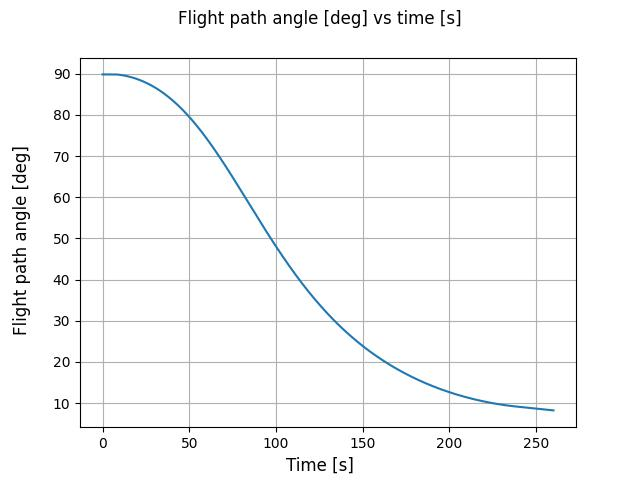
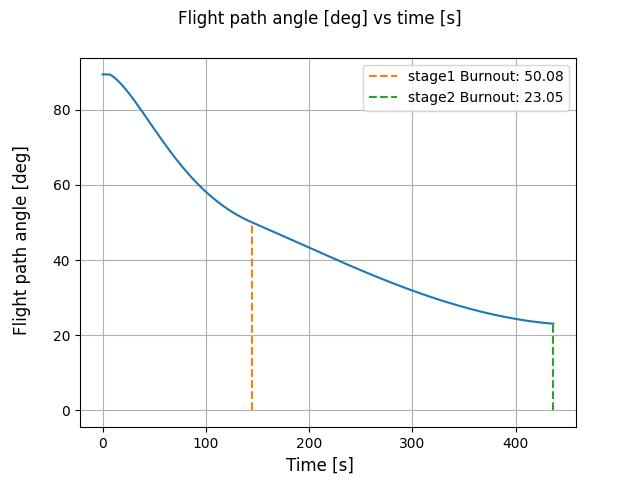
Updated assets and README

diff --git a/README.md b/README.md
@@ -13,11 +13,11 @@ This project focuses on simulating the launch stage of different rockets in orde
 4) [Result validation](#result-validation)
 5) [Notes](#notes)
 
-## Current status (as of April 25 2026)
+## Current status (as of May 05 2026)
 The project currently includes:
 * Orbit estimator: Allowing to estimate burnout speed based on energy conservation and approximated values of losses due to drag and gravity.
 
-* Equation of motion solver: Solves de initial value problem for the equation of motion.
+* Equation of motion solver for multistage rockets: Solves the initial value problem for the equation of motion.
 
 
 ## Roadmap / Future Work
